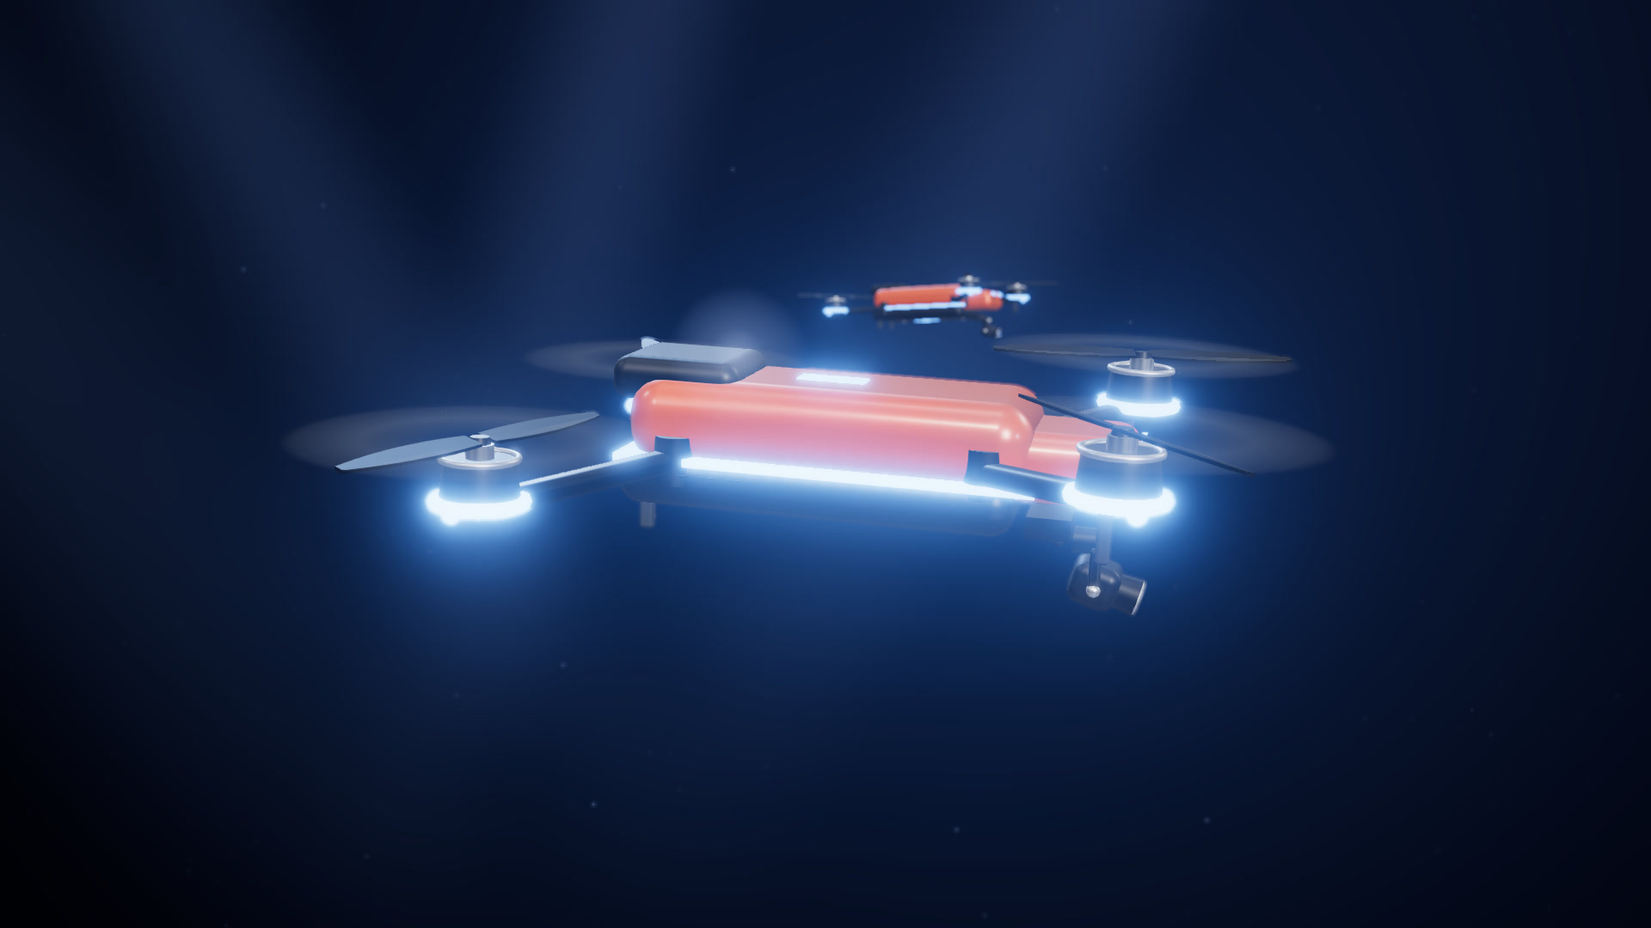
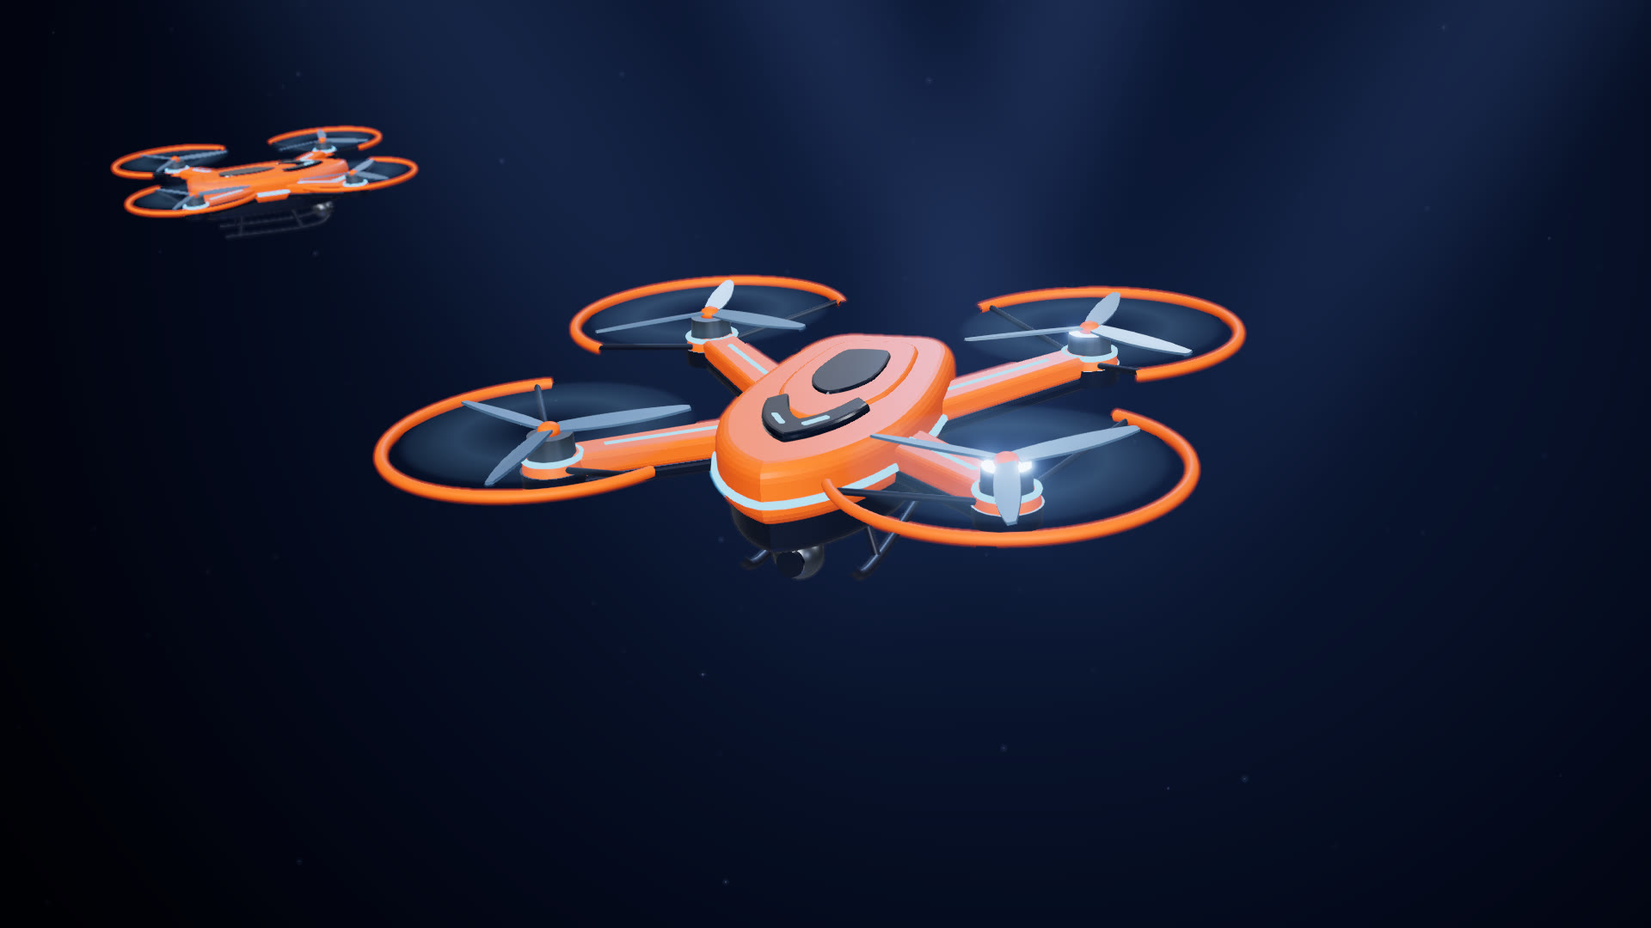
Hero sample: Ember, an original orange racer
The sample drone was modelled on a stock image we have no licence for, so
it is redesigned from scratch: a low arrowhead fuselage in candy orange
over a navy hull, a glass visor with a cyan chevron, a cyan light seam
round the nose, tapered arms with cyan strips, gunmetal motors with cyan
rings, open orange prop guards, three-blade props, a camera ball and
landing skids. Finishes are satin so the broad flat tops don't mirror
the key light. The lab shot views it three-quarter from the front with a
second Ember behind, and the gallery still is re-rendered. The live hero
still flies the classic drone.

Claude-Session: https://claude.ai/code/session_01YRwyL2vKMqSR8sPnguMhnM

diff --git a/drone/src/components/hero/droneModel.ts b/drone/src/components/hero/droneModel.ts
@@ -117,115 +117,139 @@ export function droneMaterials(): Record<string, THREE.Material> {
   return mats;
 }
 
-/** Perforated grille for the arm side panels: dark with rows of orange-lit holes. */
-function meshTexture(): THREE.Texture {
-  const c = document.createElement('canvas'); c.width = 128; c.height = 32;
-  const g = c.getContext('2d')!;
-  g.fillStyle = '#0c1522'; g.fillRect(0, 0, 128, 32);
-  for (let y = 0; y < 4; y++) for (let x = 0; x < 16; x++) {
-    const cx = 4 + x * 8 + (y % 2) * 4, cy = 4 + y * 8;
-    const gr = g.createRadialGradient(cx, cy, 0, cx, cy, 3.2); gr.addColorStop(0, '#ffb35a'); gr.addColorStop(0.6, '#c9561a'); gr.addColorStop(1, 'rgba(12,21,34,0)');
-    g.fillStyle = gr; g.beginPath(); g.arc(cx, cy, 3.2, 0, Math.PI * 2); g.fill();
-  }
-  const t = new THREE.CanvasTexture(c); t.colorSpace = THREE.SRGBColorSpace; t.wrapS = t.wrapT = THREE.RepeatWrapping; t.repeat.set(2, 1); return t;
-}
-
 /**
- * Materials for the orange racer (buildGlowDrone): candy-orange clearcoat, deep
- * navy gloss, dark glass, gunmetal, steel-blue props, and a cyan light that
- * blooms. Same keys the hero reads (white, graphite, blade, ledFront ...), so it
- * drops into the hero as a sample look.
+ * Materials for Ember (buildGlowDrone): candy-orange clearcoat, deep navy gloss,
+ * dark glass, gunmetal, steel-blue props, and a cyan light that blooms. Same keys
+ * the hero reads (white, graphite, blade, ledFront ...), so it drops into the
+ * hero as a sample look.
  */
 export function orangeGlowMaterials(): Record<string, THREE.Material> {
   const m = droneMaterials();
-  const cyan = new THREE.Color(0.35, 1.55, 2.9);
-  m.white = new THREE.MeshPhysicalMaterial({ color: 0xf07318, metalness: 0.05, roughness: 0.28, clearcoat: 1, clearcoatRoughness: 0.06 });
-  m.graphite = new THREE.MeshPhysicalMaterial({ color: 0x0c1830, metalness: 0.45, roughness: 0.3, clearcoat: 1, clearcoatRoughness: 0.1 });
-  m.glass = new THREE.MeshPhysicalMaterial({ color: 0x0a1c36, metalness: 0.3, roughness: 0.04, clearcoat: 1, clearcoatRoughness: 0.02, envMapIntensity: 2.2 });
-  m.gunmetal = new THREE.MeshStandardMaterial({ color: 0x626a74, metalness: 0.85, roughness: 0.32 });
-  m.blade = new THREE.MeshPhysicalMaterial({ color: 0x7196b8, metalness: 0.55, roughness: 0.28, clearcoat: 0.8, side: THREE.DoubleSide });
+  const cyan = new THREE.Color(0.22, 1.0, 1.9);
+  m.white = new THREE.MeshPhysicalMaterial({ color: 0xf05a00, emissive: 0x301000, metalness: 0.0, roughness: 0.55, specularIntensity: 0.35, clearcoat: 0.2, clearcoatRoughness: 0.4 });
+  m.graphite = new THREE.MeshPhysicalMaterial({ color: 0x0f1c34, metalness: 0.3, roughness: 0.5, clearcoat: 0.3, clearcoatRoughness: 0.35 });
+  m.glass = new THREE.MeshPhysicalMaterial({ color: 0x0a1a30, metalness: 0.2, roughness: 0.14, clearcoat: 0.6, clearcoatRoughness: 0.1, envMapIntensity: 0.8 });
+  m.gunmetal = new THREE.MeshStandardMaterial({ color: 0x5d6570, metalness: 0.85, roughness: 0.34 });
+  m.blade = new THREE.MeshPhysicalMaterial({ color: 0x4f6f8e, metalness: 0.2, roughness: 0.45, clearcoat: 0.3, side: THREE.DoubleSide });
   m.glow = new THREE.MeshBasicMaterial({ color: cyan, toneMapped: false });
-  m.tube = new THREE.MeshPhysicalMaterial({ color: 0x19c4ff, emissive: new THREE.Color(0x0a8fd8), emissiveIntensity: 1.6, roughness: 0.15, clearcoat: 1, transparent: true, opacity: 0.85 });
-  m.grille = new THREE.MeshStandardMaterial({ map: meshTexture(), metalness: 0.4, roughness: 0.45 });
   m.ledFront = m.glow; m.ledGreen = m.glow; m.ledRed = m.glow;
   return m;
 }
 
+/** A plan-view outline (x forward, y = right) extruded upward: local y from 0 to about depth + 2 * bevel. */
+function slab(shape: THREE.Shape, depth: number, bevel: number, segs = 5): THREE.BufferGeometry {
+  const geo = new THREE.ExtrudeGeometry(shape, { depth, bevelEnabled: true, bevelThickness: bevel, bevelSize: bevel * 0.8, bevelSegments: segs, curveSegments: 40 });
+  geo.rotateX(-Math.PI / 2); geo.translate(0, bevel, 0);
+  return geo;
+}
+
+/** Ember's fuselage outline: a rounded arrowhead, widest just ahead of centre, a squared tail. Scaled about the origin. */
+function emberOutline(k = 1, dx = 0): THREE.Shape {
+  const p = (x: number, y: number): [number, number] => [x * k + dx, y * k];
+  const s = new THREE.Shape();
+  s.moveTo(...p(0.54, 0));
+  s.quadraticCurveTo(...p(0.47, 0.15), ...p(0.22, 0.215));
+  s.quadraticCurveTo(...p(0, 0.25), ...p(-0.3, 0.2));
+  s.quadraticCurveTo(...p(-0.47, 0.18), ...p(-0.47, 0.09));
+  s.lineTo(...p(-0.47, -0.09));
+  s.quadraticCurveTo(...p(-0.47, -0.18), ...p(-0.3, -0.2));
+  s.quadraticCurveTo(...p(0, -0.25), ...p(0.22, -0.215));
+  s.quadraticCurveTo(...p(0.47, -0.15), ...p(0.54, 0));
+  return s;
+}
+
 /**
- * The orange racer from the reference image: a sculpted orange shell like a
- * helmet with a dark glass canopy and two antennas; a big glowing cyan eye in a
- * dark bezel on the nose with round sensors either side; four thick curved arms,
- * orange over navy, with perforated grilles down their sides; orange motor pods
- * with gunmetal bands, glowing cyan rings and cyan hoses underneath; long
- * steel-blue two-blade props. Local axes as buildDrone: +x forward, +y up, +z right.
+ * Ember, an original racing quad for the hero sample: a low arrowhead fuselage in
+ * candy orange over a navy hull, a dark glass visor and a cyan chevron on the
+ * nose, a cyan light seam wrapping the front, straight tapered arms each carrying
+ * a cyan strip, gunmetal motors with cyan rings, open orange prop guards on the
+ * outside of each rotor, steel-blue three-blade props, a camera ball under the
+ * nose and navy landing skids. Local axes as buildDrone: +x forward, +y up, +z right.
  */
 export function buildGlowDrone(M: Record<string, THREE.Material>, blurTex: THREE.Texture): { group: THREE.Group; props: THREE.Group[]; blur: THREE.Mesh[] } {
   const g = new THREE.Group();
   const UP = new THREE.Vector3(0, 1, 0);
-  const ell = (m: THREE.Material, x: number, y: number, z: number, sx: number, sy: number, sz: number, seg = 40) => {
-    const o = new THREE.Mesh(new THREE.SphereGeometry(1, seg, Math.round(seg * 0.7)), m); o.position.set(x, y, z); o.scale.set(sx, sy, sz); g.add(o); return o;
+  const add = (geo: THREE.BufferGeometry, m: THREE.Material, x: number, y: number, z: number, rx = 0, ry = 0, rz = 0, parent: THREE.Object3D = g) => { const o = new THREE.Mesh(geo, m); o.position.set(x, y, z); o.rotation.set(rx, ry, rz); parent.add(o); return o; };
+  const rod = (m: THREE.Material, r: number, a: THREE.Vector3, b: THREE.Vector3) => {
+    const o = new THREE.Mesh(new THREE.CylinderGeometry(r, r, a.distanceTo(b), 10), m);
+    o.position.copy(a).add(b).multiplyScalar(0.5); o.quaternion.setFromUnitVectors(UP, b.clone().sub(a).normalize()); g.add(o); return o;
   };
-  const add = (geo: THREE.BufferGeometry, m: THREE.Material, x: number, y: number, z: number, rx = 0, ry = 0, rz = 0) => { const o = new THREE.Mesh(geo, m); o.position.set(x, y, z); o.rotation.set(rx, ry, rz); g.add(o); return o; };
-  const along = (o: THREE.Object3D, a: THREE.Vector3, b: THREE.Vector3) => { o.position.copy(a).add(b).multiplyScalar(0.5); o.quaternion.setFromUnitVectors(UP, b.clone().sub(a).normalize()); g.add(o); return o; };
 
-  // Fuselage: navy belly, orange helmet shell with a raised spine, a bulging nose.
-  ell(M.graphite, -0.02, -0.1, 0, 0.44, 0.16, 0.27);
-  ell(M.white, 0, 0.02, 0, 0.46, 0.25, 0.29);
-  ell(M.white, 0.04, 0.12, 0, 0.36, 0.17, 0.16);
-  ell(M.white, 0.34, -0.05, 0, 0.21, 0.19, 0.2);
+  // Fuselage: navy hull, orange shell, a raised orange deck behind a glass visor.
+  add(slab(emberOutline(0.95), 0.06, 0.03), M.graphite, 0, -0.15, 0);
+  add(slab(emberOutline(1), 0.07, 0.045), M.white, 0, -0.06, 0);
+  add(slab(emberOutline(0.62, -0.1), 0.012, 0.022), M.white, 0, 0.055, 0);
+  const visor = new THREE.Shape();                                   // a swept glass wedge on the front of the deck
+  visor.moveTo(0.4, 0); visor.quadraticCurveTo(0.33, 0.1, 0.16, 0.13); visor.lineTo(0.12, 0.1); visor.quadraticCurveTo(0.26, 0.06, 0.3, 0);
+  visor.quadraticCurveTo(0.26, -0.06, 0.12, -0.1); visor.lineTo(0.16, -0.13); visor.quadraticCurveTo(0.33, -0.1, 0.4, 0);
+  add(slab(visor, 0.012, 0.014, 3), M.glass, 0, 0.082, 0);
+  add(slab(emberOutline(0.36, -0.12), 0.004, 0.008, 2), M.glass, 0, 0.1, 0);      // glass panel let into the deck
+  // Cyan chevron on the nose, pointing forward.
+  for (const s of [-1, 1]) add(new THREE.BoxGeometry(0.075, 0.006, 0.014), M.glow, 0.31, 0.124, s * 0.05, 0, s * 0.62, 0);
+  // Light seam: a cyan line wrapping the front along the shell/hull join.
+  const seam: THREE.Vector3[] = [];
+  const rim = emberOutline(1).getSpacedPoints(160);
+  rim.forEach((pt, i) => {
+    const a = rim[(i + rim.length - 1) % rim.length], b = rim[(i + 1) % rim.length];
+    const n = new THREE.Vector2(b.y - a.y, a.x - b.x).normalize(); if (n.dot(pt) < 0) n.negate();   // outward, clear of the shell's bevel
+    if (pt.x > -0.1) seam.push(new THREE.Vector3(pt.x + n.x * 0.041, 0.0, -(pt.y + n.y * 0.041)));
+  });
+  seam.sort((a, b) => a.z - b.z);
+  g.add(new THREE.Mesh(new THREE.TubeGeometry(new THREE.CatmullRomCurve3(seam), 90, 0.011, 8), M.glow));
+  // Tail lights and side vents.
   for (const s of [-1, 1]) {
-    ell(M.white, 0.3, -0.1, s * 0.13, 0.16, 0.13, 0.08);                        // cheeks sweeping down
-    const panel = add(new THREE.CapsuleGeometry(0.05, 0.36, 8, 16), M.graphite, -0.04, -0.03, s * 0.275, 0, 0, Math.PI / 2); panel.scale.set(1, 1, 0.55);  // dark side panel
-    for (let k = 0; k < 3; k++) add(new THREE.BoxGeometry(0.06, 0.008, 0.012), M.gunmetal, -0.14 + k * 0.08, -0.05, s * 0.302);            // intake slats
-    // Round sensors either side of the eye, and the machinery under the chin.
-    add(new THREE.CylinderGeometry(0.048, 0.052, 0.05, 28), M.gunmetal, 0.43, -0.13, s * 0.15, 0, 0, Math.PI / 2);
-    add(new THREE.CylinderGeometry(0.034, 0.034, 0.012, 24), M.glass, 0.457, -0.13, s * 0.15, 0, 0, Math.PI / 2);
-    add(new THREE.CylinderGeometry(0.018, 0.018, 0.14, 12), M.gunmetal, 0.3, -0.21, s * 0.08, 0, 0, Math.PI / 2.6);
-    add(new THREE.CylinderGeometry(0.03, 0.03, 0.05, 16), M.graphite, 0.24, -0.2, s * 0.12);
+    add(new THREE.BoxGeometry(0.012, 0.03, 0.07), M.glow, -0.475, -0.02, s * 0.11);
+    for (let k = 0; k < 3; k++) add(new THREE.BoxGeometry(0.075, 0.012, 0.01), M.graphite, -0.08 - k * 0.07, 0.0, s * 0.235, 0, s * 0.3, 0.35);
   }
-  // Canopy of dark glass on top, two antennas behind it.
-  ell(M.glass, 0.02, 0.19, 0, 0.22, 0.1, 0.13);
-  ell(M.glass, 0.18, 0.13, 0, 0.12, 0.06, 0.09);
-  for (const s of [-1, 1]) along(new THREE.Mesh(new THREE.CylinderGeometry(0.006, 0.009, 0.2, 8), M.graphite), new THREE.Vector3(-0.04, 0.26, s * 0.05), new THREE.Vector3(-0.1, 0.45, s * 0.065));
-  // The eye: dark bezel, glowing cyan lens, a hot core.
-  add(new THREE.TorusGeometry(0.078, 0.024, 16, 40), M.graphite, 0.52, -0.1, 0, 0, Math.PI / 2);
-  add(new THREE.CylinderGeometry(0.068, 0.068, 0.02, 40), M.glow, 0.525, -0.1, 0, 0, 0, Math.PI / 2);
-  add(new THREE.SphereGeometry(0.03, 20, 14), M.glow, 0.54, -0.1, 0);
+  // Camera ball under the nose.
+  add(new THREE.CylinderGeometry(0.035, 0.035, 0.03, 16), M.graphite, 0.36, -0.17, 0);
+  add(new THREE.SphereGeometry(0.065, 28, 20), M.gunmetal, 0.36, -0.22, 0);
+  add(new THREE.CylinderGeometry(0.036, 0.036, 0.02, 24), M.glass, 0.418, -0.22, 0, 0, 0, Math.PI / 2);
+  // Landing skids.
+  for (const s of [-1, 1]) {
+    const z = s * 0.15;
+    g.add(new THREE.Mesh(new THREE.TubeGeometry(new THREE.CatmullRomCurve3([new THREE.Vector3(-0.34, -0.29, z), new THREE.Vector3(0.2, -0.3, z), new THREE.Vector3(0.33, -0.28, z), new THREE.Vector3(0.38, -0.24, z)]), 24, 0.013, 8), M.graphite));
+    rod(M.graphite, 0.011, new THREE.Vector3(0.14, -0.17, s * 0.1), new THREE.Vector3(0.18, -0.3, z));
+    rod(M.graphite, 0.011, new THREE.Vector3(-0.2, -0.17, s * 0.1), new THREE.Vector3(-0.24, -0.3, z));
+  }
 
-  // Arms: thick and curved, orange over navy, a perforated grille down the outer side, out to the motor pods.
+  // Arms, motors, guards and props.
   const props: THREE.Group[] = [], blur: THREE.Mesh[] = [];
+  const R = 0.36;
   const bladeShape = new THREE.Shape();
-  bladeShape.moveTo(0.03, -0.028); bladeShape.quadraticCurveTo(0.26, -0.06, 0.5, -0.016); bladeShape.lineTo(0.5, 0.01); bladeShape.quadraticCurveTo(0.26, 0.045, 0.03, 0.028); bladeShape.closePath();
-  const bladeGeo = new THREE.ExtrudeGeometry(bladeShape, { depth: 0.008, bevelEnabled: false }).rotateX(-Math.PI / 2);
-  const discGeo = new THREE.CircleGeometry(0.51, 48);
+  bladeShape.moveTo(0.025, -0.022); bladeShape.quadraticCurveTo(0.2, -0.05, R, -0.012); bladeShape.lineTo(R, 0.008); bladeShape.quadraticCurveTo(0.2, 0.036, 0.025, 0.022); bladeShape.closePath();
+  const bladeGeo = new THREE.ExtrudeGeometry(bladeShape, { depth: 0.007, bevelEnabled: false }).rotateX(-Math.PI / 2);
+  const discGeo = new THREE.CircleGeometry(R + 0.01, 48);
   for (const [fx, fz] of [[1, 1], [1, -1], [-1, 1], [-1, -1]]) {
-    const root = new THREE.Vector3(fx * 0.12, 0.02, fz * 0.22);
-    const tip = new THREE.Vector3(fx * 0.58, 0.07, fz * 0.74);
-    const mid = root.clone().lerp(tip, 0.5).add(new THREE.Vector3(0, 0.05, 0));       // the arm arches up a little
-    const curve = new THREE.QuadraticBezierCurve3(root, mid, tip);
-    const top = new THREE.Mesh(new THREE.TubeGeometry(curve, 24, 0.066, 18), M.white); top.scale.y = 1; g.add(top);
-    const under = new THREE.Mesh(new THREE.TubeGeometry(new THREE.QuadraticBezierCurve3(root.clone().add(new THREE.Vector3(0, -0.035, 0)), mid.clone().add(new THREE.Vector3(0, -0.04, 0)), tip.clone().add(new THREE.Vector3(0, -0.035, 0))), 24, 0.06, 18), M.graphite); g.add(under);
-    // Grille: a thin curved strip along the arm's outer flank.
-    const out = new THREE.Vector3(-(tip.z - root.z), 0, tip.x - root.x).normalize().multiplyScalar(fz * fx > 0 ? 0.062 : -0.062);
-    if ((out.x * fx + out.z * fz) < 0) out.multiplyScalar(-1);
-    const gr = new THREE.Mesh(new THREE.TubeGeometry(new THREE.QuadraticBezierCurve3(root.clone().lerp(tip, 0.18).add(out), mid.clone().add(out).add(new THREE.Vector3(0, -0.02, 0)), root.clone().lerp(tip, 0.82).add(out)), 16, 0.03, 10), M.grille);
-    gr.scale.set(1, 1, 1); g.add(gr);
-    // Motor pod: orange housing and dome, gunmetal band, navy base, cyan ring and hoses underneath.
-    add(new THREE.CylinderGeometry(0.105, 0.1, 0.09, 32), M.white, tip.x, tip.y, tip.z);
-    const dome = add(new THREE.SphereGeometry(0.105, 32, 16, 0, Math.PI * 2, 0, Math.PI / 2), M.white, tip.x, tip.y + 0.045, tip.z); dome.scale.y = 0.45;
-    add(new THREE.TorusGeometry(0.105, 0.012, 10, 40), M.gunmetal, tip.x, tip.y + 0.005, tip.z, Math.PI / 2);
-    add(new THREE.CylinderGeometry(0.095, 0.085, 0.07, 32), M.graphite, tip.x, tip.y - 0.075, tip.z);
-    add(new THREE.TorusGeometry(0.082, 0.02, 12, 40), M.glow, tip.x, tip.y - 0.115, tip.z, Math.PI / 2);
-    const hose = add(new THREE.TorusGeometry(0.13, 0.018, 10, 32, Math.PI), M.tube, tip.x, tip.y - 0.06, tip.z, 0, Math.atan2(tip.x - root.x, tip.z - root.z), Math.PI);
-    void hose;
-    add(new THREE.CylinderGeometry(0.03, 0.035, 0.05, 16), M.gunmetal, tip.x, tip.y + 0.085, tip.z);
+    const root = new THREE.Vector3(fx * 0.1, -0.02, fz * 0.16);
+    const tip = new THREE.Vector3(fx * 0.52, 0.02, fz * 0.58);
+    const d = tip.clone().sub(root), L = Math.hypot(d.x, d.z);
+    const arm = new THREE.Group(); arm.position.copy(root); arm.rotation.set(0, Math.atan2(-d.z, d.x), Math.atan2(d.y, L)); g.add(arm);
+    const taper = new THREE.Shape();
+    taper.moveTo(0, -0.06); taper.lineTo(L, -0.038); taper.lineTo(L, 0.038); taper.lineTo(0, 0.06); taper.closePath();
+    add(slab(taper, 0.03, 0.016, 3), M.white, 0, -0.005, 0, 0, 0, 0, arm);
+    add(slab(taper, 0.012, 0.012, 3), M.graphite, 0, -0.04, 0, 0, 0, 0, arm);
+    add(new THREE.BoxGeometry(L * 0.55, 0.005, 0.014), M.glow, L * 0.5, 0.058, 0, 0, 0, 0, arm);
+    // Motor: navy pad, orange collar, cyan ring, gunmetal bell.
+    add(new THREE.CylinderGeometry(0.085, 0.08, 0.05, 32), M.graphite, tip.x, tip.y - 0.01, tip.z);
+    add(new THREE.CylinderGeometry(0.074, 0.08, 0.03, 32), M.white, tip.x, tip.y + 0.03, tip.z);
+    add(new THREE.TorusGeometry(0.073, 0.008, 10, 40), M.glow, tip.x, tip.y + 0.047, tip.z, Math.PI / 2);
+    add(new THREE.CylinderGeometry(0.058, 0.062, 0.06, 28), M.gunmetal, tip.x, tip.y + 0.075, tip.z);
+    // Open guard round the outside of the rotor, on two struts.
+    const out = Math.atan2(fz, fx), arc = 1.2 * Math.PI, gy = tip.y + 0.105, gr = R + 0.05;
+    const guard = new THREE.Group(); guard.position.set(tip.x, gy, tip.z); guard.rotation.y = arc / 2 - out; g.add(guard);
+    add(new THREE.TorusGeometry(gr, 0.014, 10, 72, arc), M.white, 0, 0, 0, Math.PI / 2, 0, 0, guard);
+    for (const t of [0.1, arc - 0.1]) {
+      const a = t - guard.rotation.y;
+      rod(M.graphite, 0.009, new THREE.Vector3(tip.x, tip.y + 0.01, tip.z), new THREE.Vector3(tip.x + gr * Math.cos(a), gy, tip.z + gr * Math.sin(a)));
+    }
+    // Three-blade prop.
     const prop = new THREE.Group(); prop.position.set(tip.x, tip.y + 0.115, tip.z);
-    const b1 = new THREE.Mesh(bladeGeo, M.blade); b1.rotation.x = 0.2;
-    const b2 = new THREE.Mesh(bladeGeo, M.blade); b2.rotation.set(0.2, Math.PI, 0);
-    const cap = new THREE.Mesh(new THREE.SphereGeometry(0.032, 16, 10), M.white); cap.scale.y = 0.7;
+    for (let k = 0; k < 3; k++) { const b = new THREE.Mesh(bladeGeo, M.blade); b.rotation.set(0.18, (k * 2 * Math.PI) / 3, 0, 'YXZ'); prop.add(b); }
+    const cap = new THREE.Mesh(new THREE.SphereGeometry(0.03, 16, 10), M.white); cap.scale.y = 0.7; prop.add(cap);
     const disc = new THREE.Mesh(discGeo, new THREE.MeshBasicMaterial({ map: blurTex, color: 0x7fa6c8, transparent: true, opacity: 0.18, depthWrite: false }));
     disc.rotation.x = -Math.PI / 2; disc.position.y = 0.004;
-    prop.add(b1, b2, cap, disc); g.add(prop); props.push(prop); blur.push(disc);
+    prop.add(disc); g.add(prop); props.push(prop); blur.push(disc);
   }
   return { group: g, props, blur };
 }

diff --git a/drone/src/components/hero/droneVariants.ts b/drone/src/components/hero/droneVariants.ts
@@ -544,7 +544,7 @@ function buildCargo(M: Record<string, THREE.Material>, blurTex: THREE.Texture): 
 
 /* ------------------------------------------------------------------ registry */
 
-/** The orange glow look of the Mavic-class airframe (droneModel.ts), as a lab variant. Its own materials, whatever the shared set is. */
+/** Ember, the original orange racer (droneModel.ts), as a lab variant. Its own materials, whatever the shared set is. */
 function buildOrange(_m: Record<string, THREE.Material>, blurTex: THREE.Texture): Airframe {
   const d = buildGlowDrone(orangeGlowMaterials(), blurTex);
   return { group: d.group, props: d.props, blur: d.blur, strobes: [], parts: {} };
@@ -556,6 +556,6 @@ export const VARIANTS: VariantInfo[] = [
   { id: 'enterprise', name: 'Enterprise security quad', role: 'Night patrol and inspection', features: ['Zoom, wide and thermal sensors', 'Searchlight on a second gimbal', 'Dual RTK antennas, strobe', 'Weather-sealed folding airframe'], build: buildEnterprise },
   { id: 'show', name: 'Light-show drone', role: 'Choreographed night-sky shows', features: ['Frosted RGB light dome', 'Ducted prop guards', 'Light enough to fly hundreds', 'Per-aircraft colour'], build: buildShow },
   { id: 'vtol', name: 'VTOL fixed-wing mapper', role: 'Large-site survey and mapping', features: ['Vertical take-off, wing-borne cruise', 'Four lift rotors, rear pusher', 'Nadir survey camera', 'Twin booms and twin fins'], build: buildVtol },
-  { id: 'orange', name: 'Orange racer', role: 'Sample for the hero, from a reference image', features: ['Sculpted orange shell, dark glass canopy', 'Glowing cyan eye on the nose', 'Curved orange-over-navy arms with grilles', 'Cyan-lit motor pods, steel-blue props'], build: buildOrange },
+  { id: 'orange', name: 'Ember racer', role: 'Sample look for the hero', features: ['Arrowhead orange shell, glass visor', 'Cyan chevron and light seam', 'Tapered arms with cyan strips', 'Open prop guards, three-blade props'], build: buildOrange },
   { id: 'cargo', name: 'Heavy-lift cargo X8', role: 'Equipment delivery on site', features: ['Eight props on coaxial pairs', 'Winch with a slung cargo pod', 'Parachute canister', 'Tall splayed landing gear'], build: buildCargo },
 ];

diff --git a/drone/src/lab/heroSample.tsx b/drone/src/lab/heroSample.tsx
@@ -6,7 +6,7 @@ import '../index.css';
 
 /**
  * A sample of the Overview hero with another drone look, for comparing before
- * changing anything: lab/hero.html (the orange glow quad), #classic or
+ * changing anything: lab/hero.html (Ember, the orange racer), #classic or
  * ?look=classic for the hero as shipped. The app itself is untouched.
  */
 type Look = 'orange' | 'classic';
@@ -22,7 +22,7 @@ const Sample: React.FC = () => {
         <span className="w-8 h-8 shrink-0 grid place-items-center rounded-lg bg-ink text-bg"><Compass className="w-4 h-4" /></span>
         <span className="text-[14px] font-semibold truncate">All in 1 · Drone Command</span>
         <div className="ml-auto flex items-center gap-1 rounded-full border border-line p-0.5 text-[12px]" role="group" aria-label="Drone look">
-          {([['orange', 'Orange glow (sample)'], ['classic', 'Current hero']] as [Look, string][]).map(([id, label]) => (
+          {([['orange', 'Ember (sample)'], ['classic', 'Current hero']] as [Look, string][]).map(([id, label]) => (
             <button key={id} type="button" aria-pressed={look === id} onClick={() => { history.replaceState(null, '', id === 'classic' ? '#classic' : '#orange'); setLook(id); }}
               className={`h-7 px-3 rounded-full ${look === id ? 'bg-ink text-bg font-medium' : 'text-ink-2 hover:text-ink'}`}>{label}</button>
           ))}

diff --git a/drone/src/lab/fleetStage.ts b/drone/src/lab/fleetStage.ts
@@ -45,7 +45,8 @@ const SHOTS: Record<string, Shot> = {
   show: { size: 2.3, yaw: -0.5, orbit: [-0.28, 0.12], dist: 5.6, lift: -1.55, fov: 36, target: [0, 0.2, 0], still: 2.2, aperture: 0.00028, companions: [] },
   vtol: { size: 4.4, yaw: 0, orbit: [0.62, 0.3], dist: 8.0, lift: 3.1, fov: 32, target: [-0.4, 0, 0], still: 3.2, aperture: 0.0002,
     companions: [{ at: [-5.2, 0.7, -4.2], size: 4.4, yaw: 0 }, { at: [-10.4, 1.4, -8.4], size: 4.4, yaw: 0 }] },
-  orange: { size: 3.6, yaw: -Math.PI / 2, orbit: [-0.1, 0.1], dist: 6.2, lift: 1.25, fov: 32, target: [0, -0.1, 0], still: 3.0, aperture: 0.00012, companions: [] },
+  orange: { size: 3.4, yaw: -1.95, orbit: [-0.3, 0.2], dist: 6.4, lift: 2.1, fov: 32, target: [0, -0.1, 0], still: 3.0, aperture: 0.00016,
+    companions: [{ at: [-5, -0.6, -10], size: 3.2, yaw: 0.4 }] },
   cargo: { size: 3.9, yaw: -0.6, orbit: [-0.42, -0.02], dist: 8.8, lift: 0.5, fov: 32, target: [0, -0.9, 0], still: 3.0, aperture: 0.0002,
     companions: [{ at: [8.5, 1.6, -15], size: 3.6, yaw: -0.8 }] },
 };

diff --git a/drone/README.md b/drone/README.md
@@ -49,8 +49,8 @@ more airframes in the hero's scene, lighting and grade: a cinema heavy-lift
 hexacopter, a freestyle FPV quad, an enterprise security quad with thermal and a
 searchlight, a light-show drone, a VTOL fixed-wing mapper and a heavy-lift cargo X8.
 They are in `src/components/hero/droneVariants.ts`; the app still flies the
-Mavic-class model. An orange glow look of the hero's own airframe (orange shell,
-blue light seam, motor rings and nose lights) is there too, and `lab/hero.html`
+Mavic-class model. Ember, an original orange racer (arrowhead shell, glass visor,
+cyan light seam and arm strips, open prop guards), is there too, and `lab/hero.html`
 shows the real Overview hero flown by it, with a switch back to the current
 hero, so a new look can be judged in place before anything changes. Open `/drone/lab/fleet.html?v=cinema` (or `fpv`, `enterprise`,
 `show`, `vtol`, `cargo`) under `npm run dev`. With `&capture`, the page renders any
